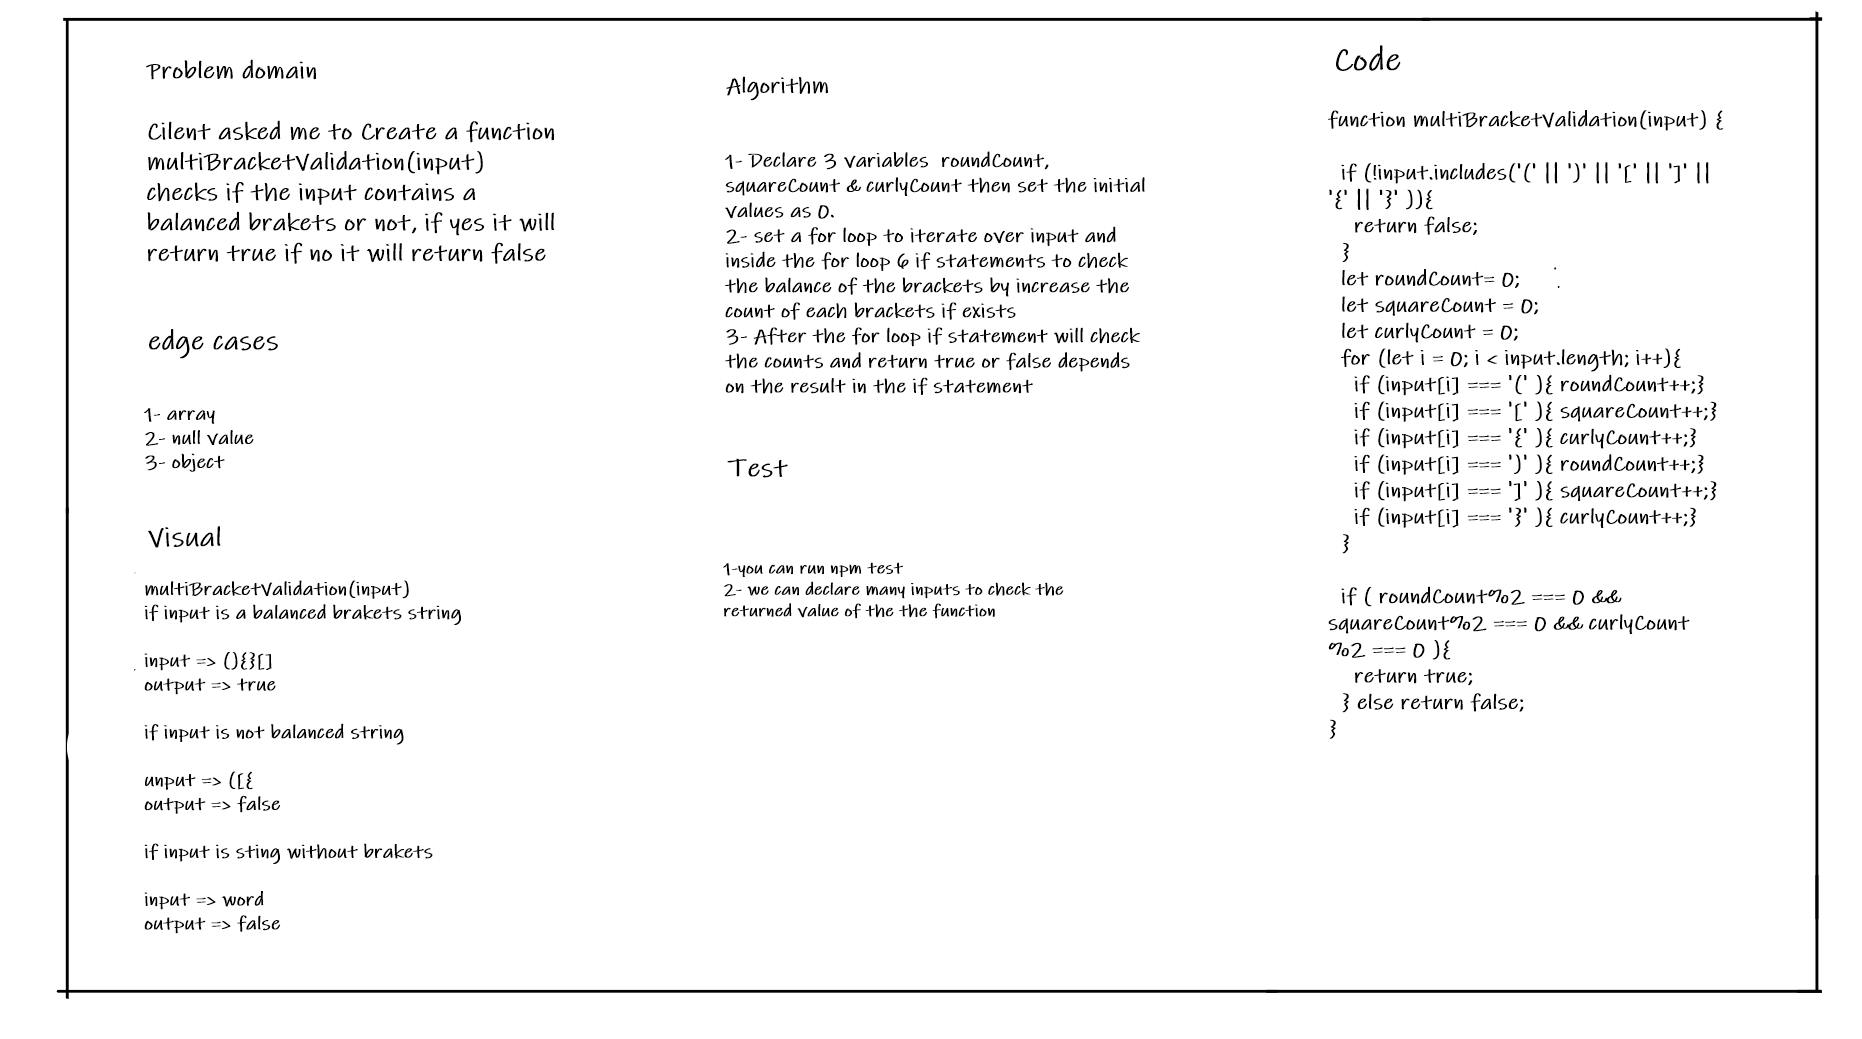
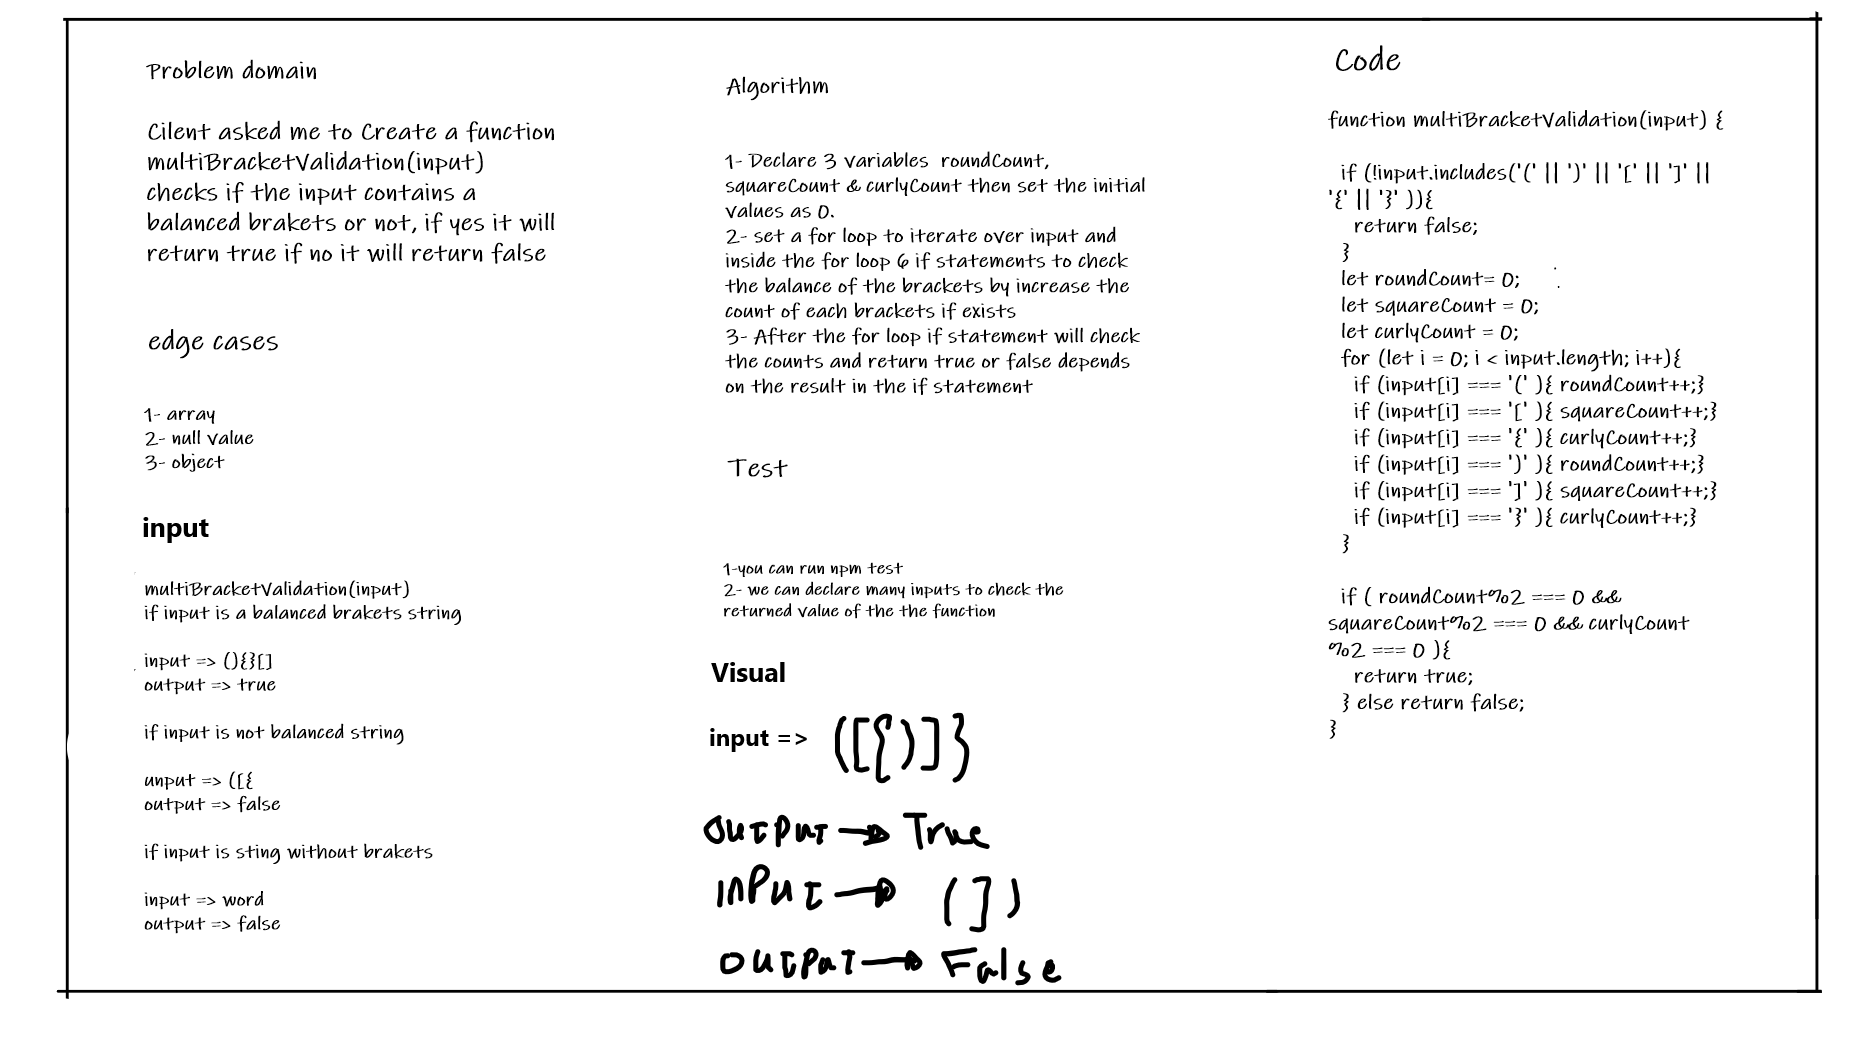
fixng whiteboard

diff --git a/README.md b/README.md
@@ -25,6 +25,9 @@ ll-insertions | [link](https://emranaloul.github.io/data-structures-and-algorith
 ll-kth-from-end | [link](https://emranaloul.github.io/data-structures-and-algorithms/javascript/code-challenges/Data-Structures/ll-kth-from-end)
 ll-zip | [link](https://emranaloul.github.io/data-structures-and-algorithms/javascript/code-challenges/ll-zip)
 Stack and Queue | [link](https://emranaloul.github.io/data-structures-and-algorithms/javascript/code-challenges/stack-and-queue)
+Queue and Stack | [link](https://emranaloul.github.io/data-structures-and-algorithms/javascript/code-challenges/queue-with-stacks)
+Fifo Animal Shelter | [link](https://emranaloul.github.io/data-structures-and-algorithms/javascript/code-challenges/fifo-animal-shelter)
+Multi Bracket Validation | [link](https://emranaloul.github.io/data-structures-and-algorithms/javascript/code-challenges/multi-bracket-validation)
 
 
 
